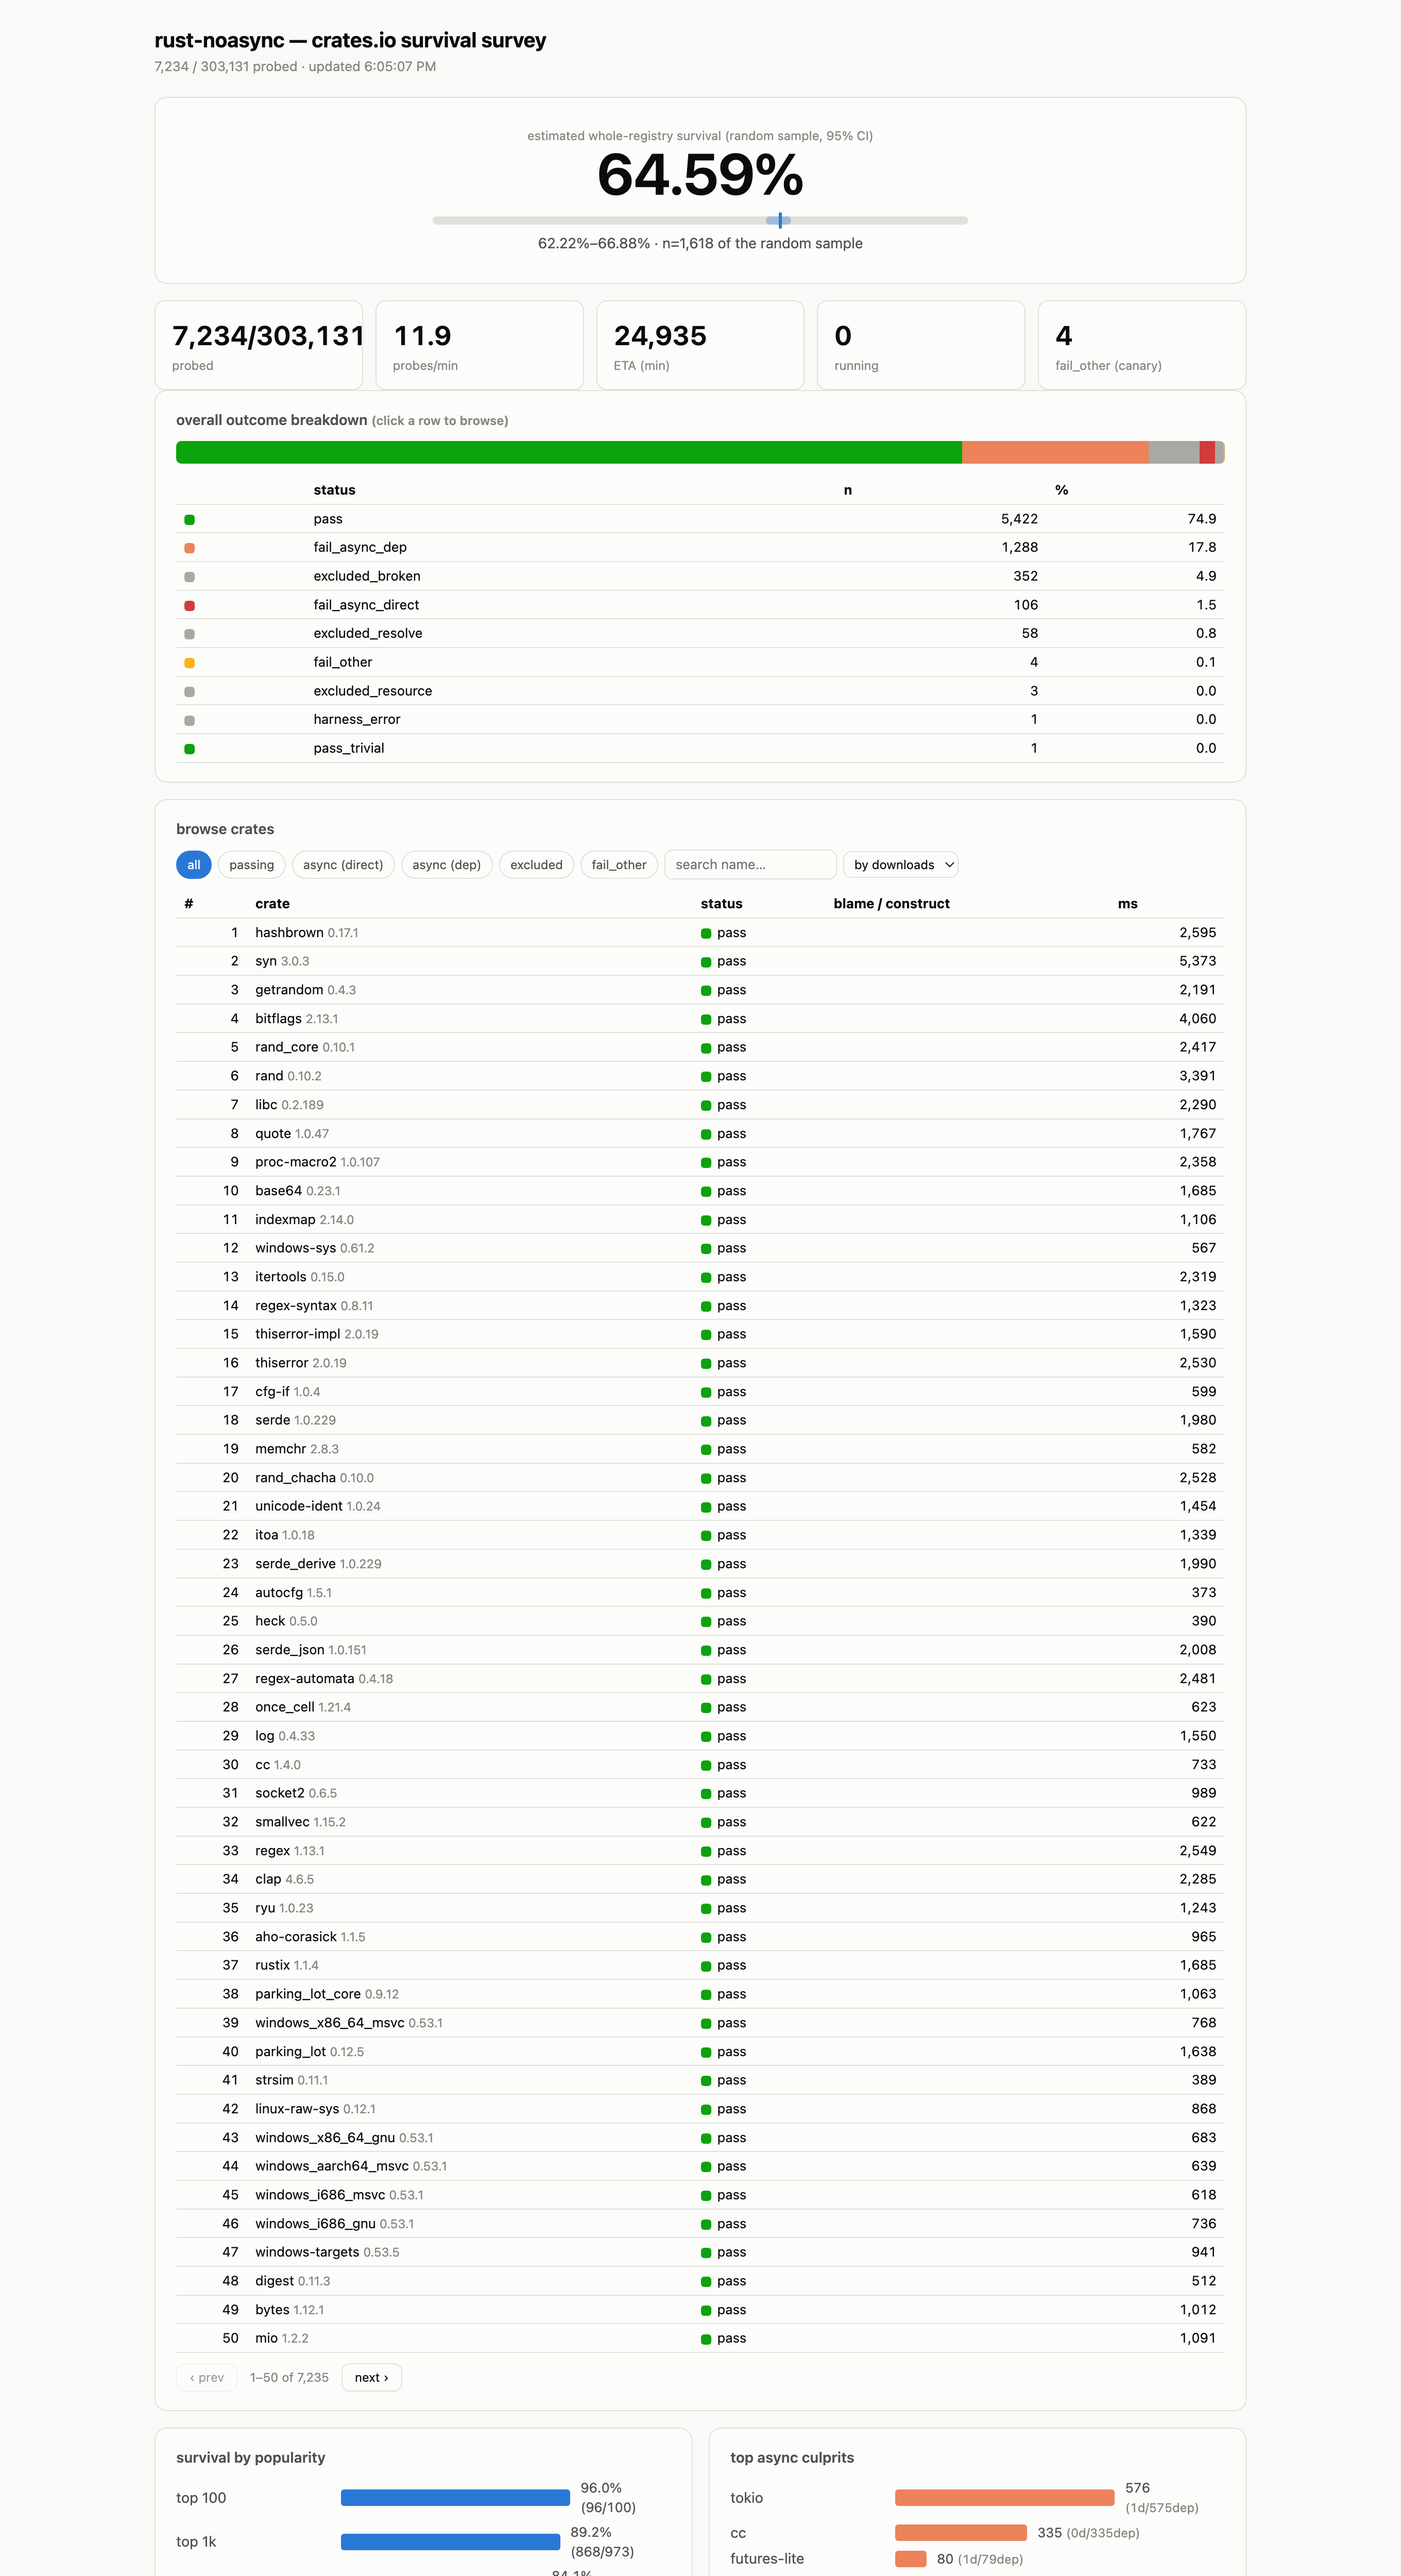
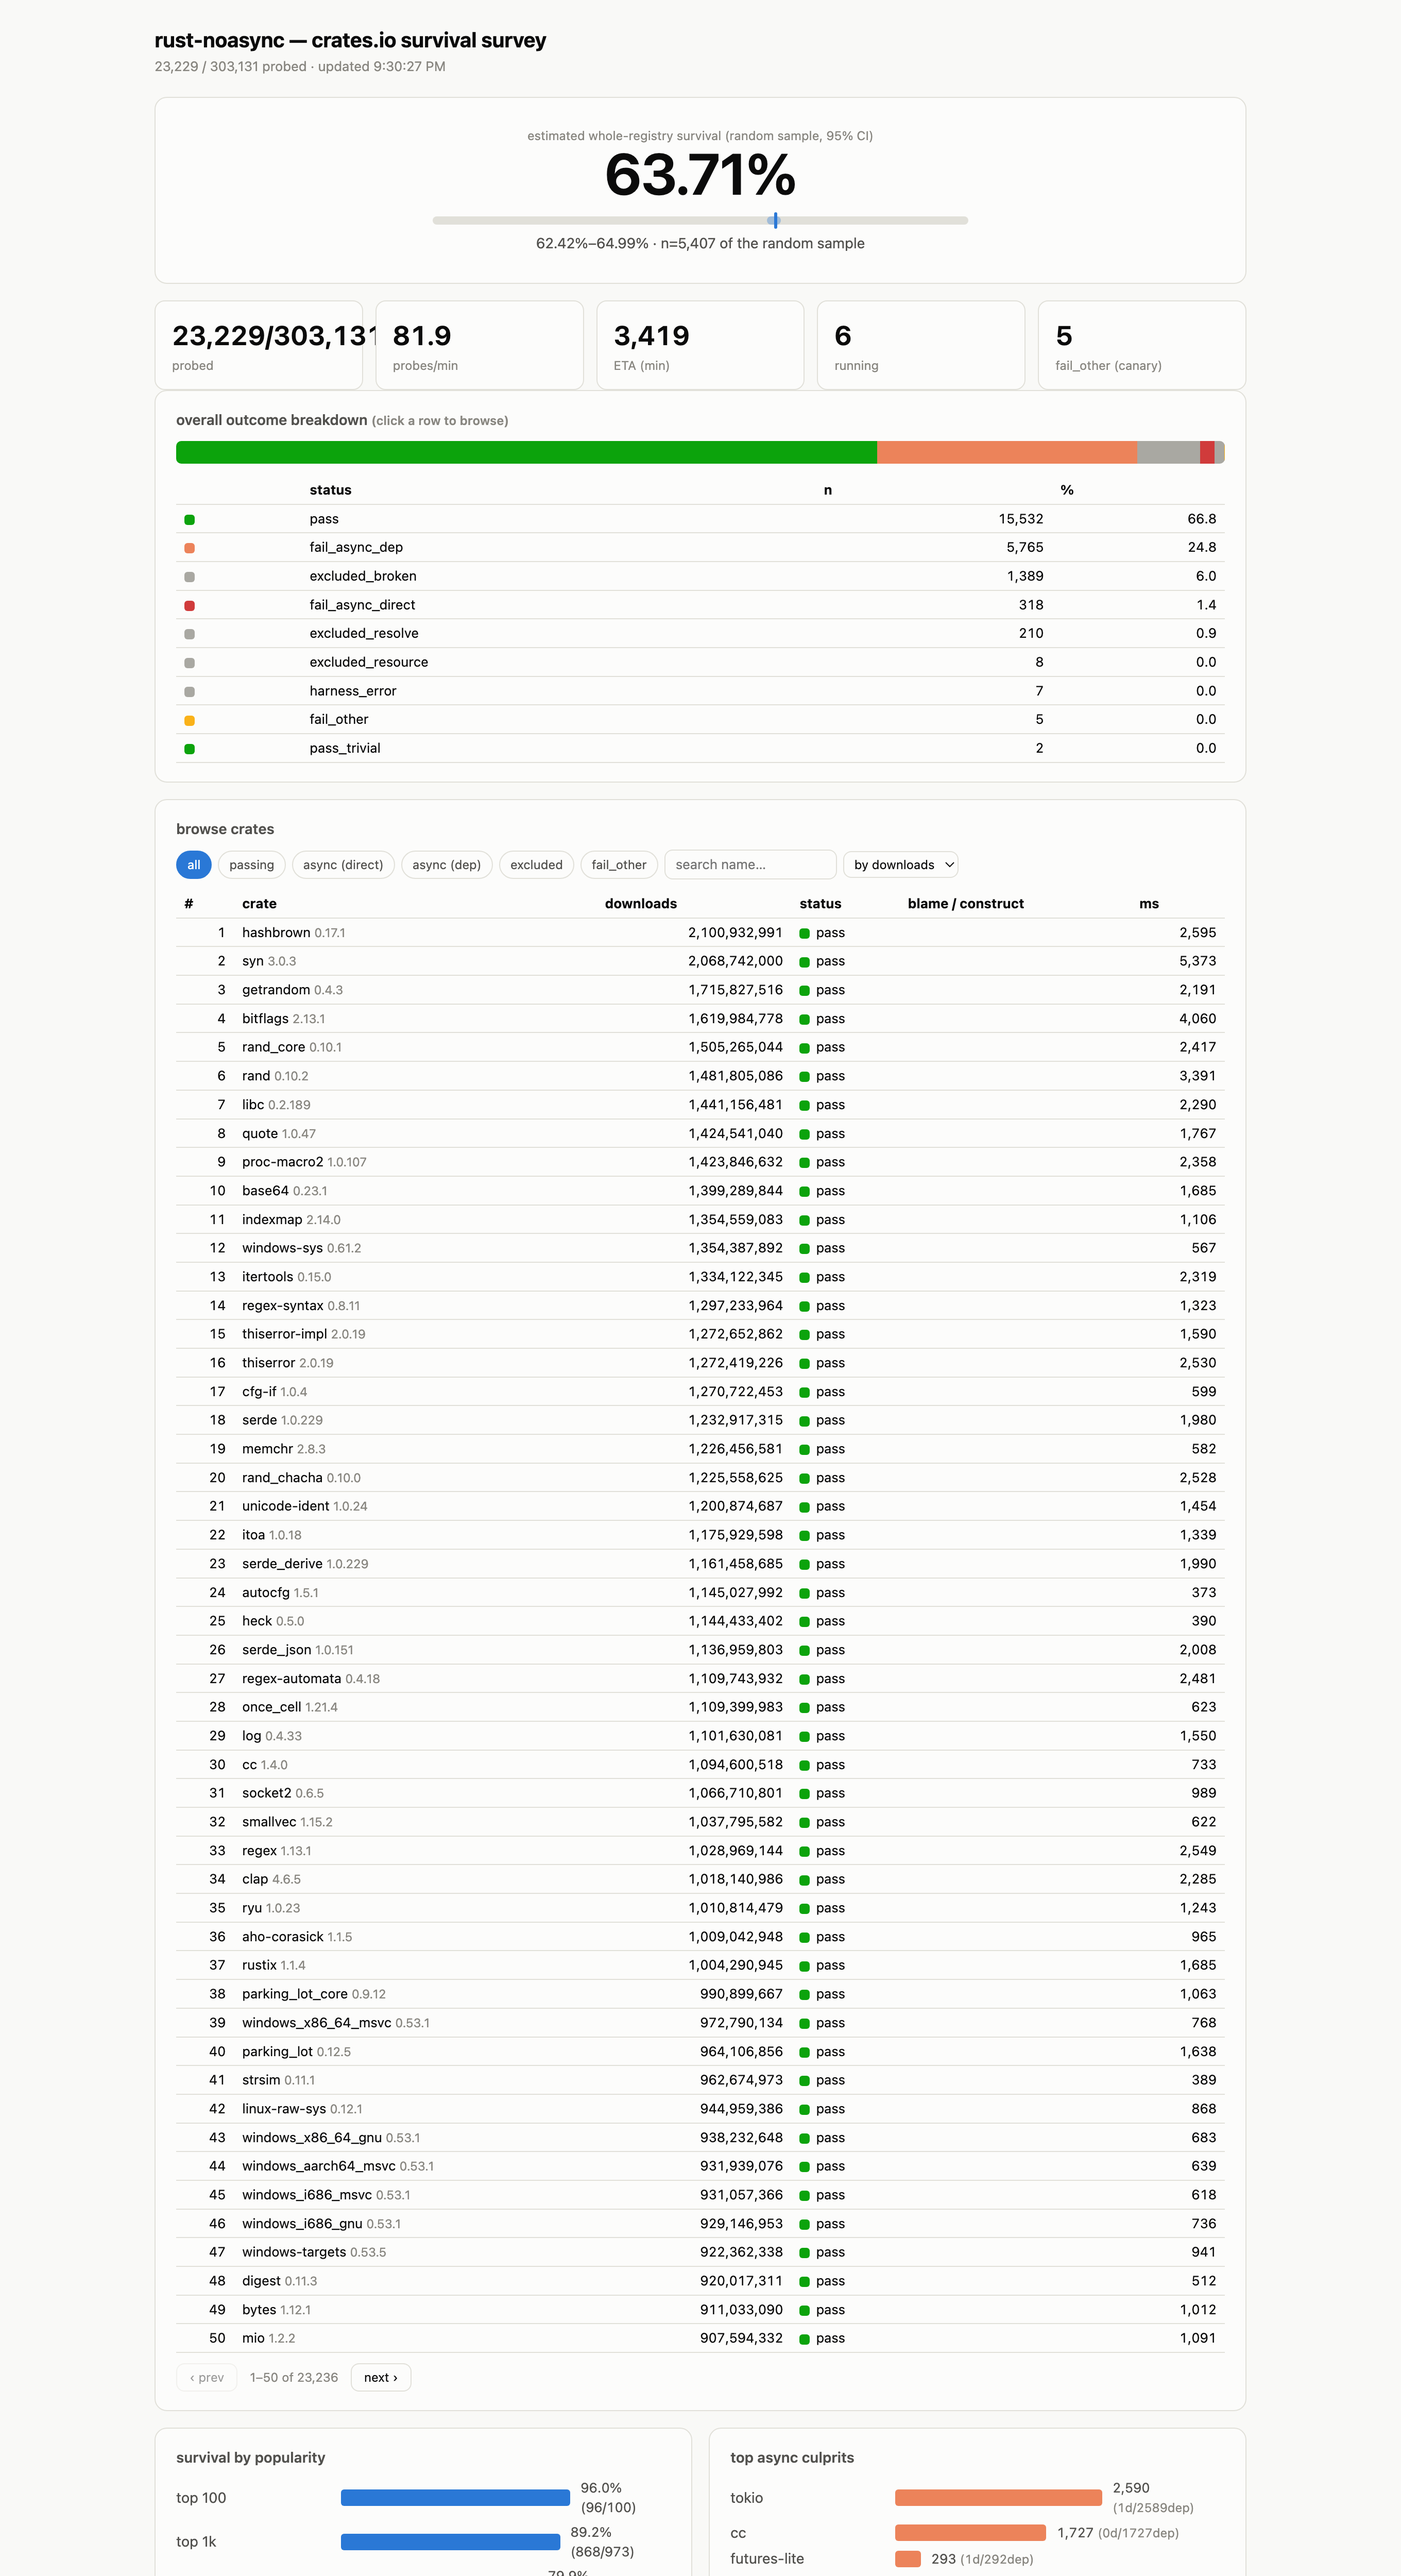
dashboard: add downloads column to the browse table
Surface each crate's total download count (the value the "by downloads"
ordering uses) beside its popularity rank. Data was already in the
/api/crates response; this renders it. Screenshot refreshed.

diff --git a/dashboard.py b/dashboard.py
@@ -395,11 +395,12 @@ function loadBrowse(){
 function renderBrowse(d){
   if(!d||d.error){return;}
   B.total=d.total;
-  $('btable').innerHTML='<tr><th class="n">#</th><th>crate</th><th>status</th><th>blame / construct</th><th class="n">ms</th></tr>'+
+  $('btable').innerHTML='<tr><th class="n">#</th><th>crate</th><th class="n">downloads</th><th>status</th><th>blame / construct</th><th class="n">ms</th></tr>'+
    (d.rows||[]).map(r=>`<tr><td class="n">${fmt(r.pop_rank)}</td><td>${esc(r.crate_name)} <span class=dot>${esc(r.version_num)}</span></td>`+
+    `<td class="n">${fmt(r.downloads)}</td>`+
     `<td><span class="chip" style="background:${C[r.status]||'var(--excl)'}"></span>${esc(r.status)}</td>`+
     `<td>${esc(r.blamed_crate_name||r.async_construct||'')}</td><td class="n">${r.wall_ms==null?'':fmt(r.wall_ms)}</td></tr>`).join('')
-    ||'<tr><td colspan=5 class=dot>no crates match</td></tr>';
+    ||'<tr><td colspan=6 class=dot>no crates match</td></tr>';
   const from=d.total?d.offset+1:0, to=Math.min(d.offset+d.limit,d.total);
   $('brange').textContent=`${fmt(from)}–${fmt(to)} of ${fmt(d.total)}`+(B.blamed?` · blamed on ${B.blamed}`:'');
   $('bprev').disabled=d.offset<=0; $('bnext').disabled=to>=d.total;
